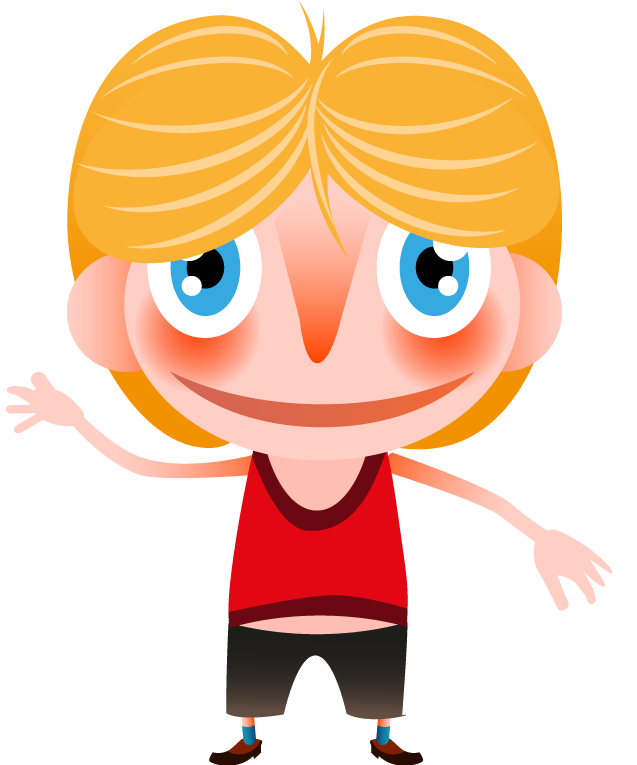
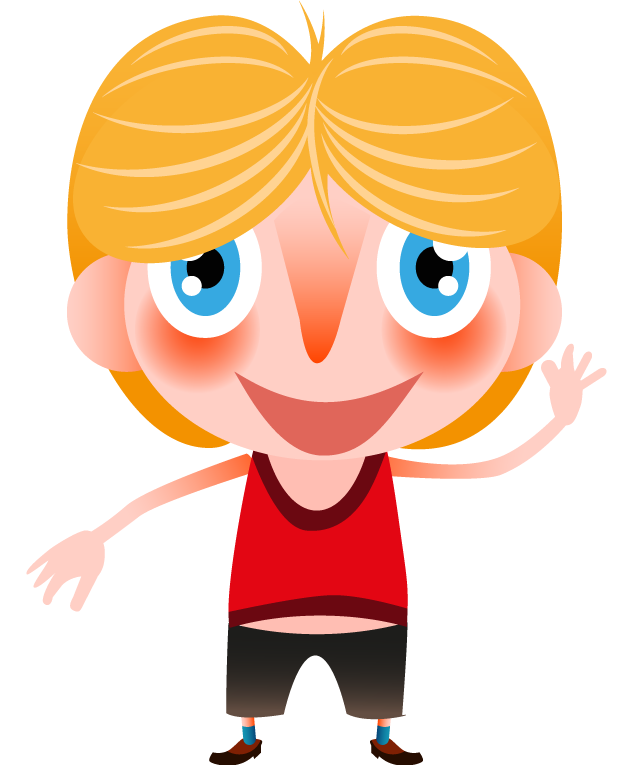
Agregue nuevas animaciones apra cuando en Challenge pifias y acertas. Momentaneamente deshabilite avatarOK, habria que volver a ponerla de forma aleatoria o que el baile se haga solo si acertas las 10

Changed region(s): [[0.0, 0.481, 0.3878, 0.8118], [0.6264, 0.451, 0.9545, 0.8118], [0.2684, 0.481, 0.7457, 0.6013]]

diff --git a/Classes/AnimatorHelper.m b/Classes/AnimatorHelper.m
@@ -1,10 +1,10 @@
-//
-//  AvatarAnimator.m
-//  VocabularyTrip
-//
-//  Created by Ariel on 11/11/13.
-//
-//
+    //
+    //  AvatarAnimator.m
+    //  VocabularyTrip
+    //
+    //  Created by Ariel on 11/11/13.
+    //
+    //
 
 #import "AnimatorHelper.h"
 #import "User.h"
@@ -17,11 +17,11 @@ SEL selectorAnimator = nil;
 + (void) avatarBlink: (UIImageView*) avatarView {
     User *user = [UserContext getUserSelected];
     avatarView.animationImages = @[
-       //[UIImage imageNamed: @"avatar2_0.png"],
-      [UIImage imageNamed: [NSString stringWithFormat: @"avatar%i%@", user.userId, @"_blink1.png"]],
-      [UIImage imageNamed: [NSString stringWithFormat: @"avatar%i%@", user.userId, @"_blink2.png"]],
-      [UIImage imageNamed: [NSString stringWithFormat: @"avatar%i%@", user.userId, @"_blink1.png"]]
-    ];
+                                   //[UIImage imageNamed: @"avatar2_0.png"],
+                                   [UIImage imageNamed: [NSString stringWithFormat: @"avatar%i%@", user.userId, @"_blink1.png"]],
+                                   [UIImage imageNamed: [NSString stringWithFormat: @"avatar%i%@", user.userId, @"_blink2.png"]],
+                                   [UIImage imageNamed: [NSString stringWithFormat: @"avatar%i%@", user.userId, @"_blink1.png"]]
+                                   ];
     
     avatarView.animationDuration = 0.2;
     avatarView.animationRepeatCount = 1;
@@ -32,22 +32,82 @@ SEL selectorAnimator = nil;
     User *user = [UserContext getUserSelected];
     
     avatarView.animationImages = @[
-      //[UIImage imageNamed: @"avatar2_0.png"],
-      [UIImage imageNamed: [NSString stringWithFormat: @"avatar%i%@", user.userId, @"_arm1.png"]],
-      [UIImage imageNamed: [NSString stringWithFormat: @"avatar%i%@", user.userId, @"_arm2.png"]],
-      [UIImage imageNamed: [NSString stringWithFormat: @"avatar%i%@", user.userId, @"_arm3.png"]],
-      [UIImage imageNamed: [NSString stringWithFormat: @"avatar%i%@", user.userId, @"_arm4b.png"]],
-      [UIImage imageNamed: [NSString stringWithFormat: @"avatar%i%@", user.userId, @"_arm5b.png"]],
-      [UIImage imageNamed: [NSString stringWithFormat: @"avatar%i%@", user.userId, @"_arm4b.png"]],
-      [UIImage imageNamed: [NSString stringWithFormat: @"avatar%i%@", user.userId, @"_arm5b.png"]],
-      [UIImage imageNamed: [NSString stringWithFormat: @"avatar%i%@", user.userId, @"_arm4b.png"]],
-      [UIImage imageNamed: [NSString stringWithFormat: @"avatar%i%@", user.userId, @"_arm5b.png"]],
-      [UIImage imageNamed: [NSString stringWithFormat: @"avatar%i%@", user.userId, @"_arm4b.png"]],
-      [UIImage imageNamed: [NSString stringWithFormat: @"avatar%i%@", user.userId, @"_arm3.png"]],
-      [UIImage imageNamed: [NSString stringWithFormat: @"avatar%i%@", user.userId, @"_arm2.png"]]
-    ];
+                                   //[UIImage imageNamed: @"avatar2_0.png"],
+                                   [UIImage imageNamed: [NSString stringWithFormat: @"avatar%i%@", user.userId, @"_arm1.png"]],
+                                   [UIImage imageNamed: [NSString stringWithFormat: @"avatar%i%@", user.userId, @"_arm2.png"]],
+                                   [UIImage imageNamed: [NSString stringWithFormat: @"avatar%i%@", user.userId, @"_arm3.png"]],
+                                   [UIImage imageNamed: [NSString stringWithFormat: @"avatar%i%@", user.userId, @"_arm4b.png"]],
+                                   [UIImage imageNamed: [NSString stringWithFormat: @"avatar%i%@", user.userId, @"_arm5b.png"]],
+                                   [UIImage imageNamed: [NSString stringWithFormat: @"avatar%i%@", user.userId, @"_arm4b.png"]],
+                                   [UIImage imageNamed: [NSString stringWithFormat: @"avatar%i%@", user.userId, @"_arm5b.png"]],
+                                   [UIImage imageNamed: [NSString stringWithFormat: @"avatar%i%@", user.userId, @"_arm4b.png"]],
+                                   [UIImage imageNamed: [NSString stringWithFormat: @"avatar%i%@", user.userId, @"_arm5b.png"]],
+                                   [UIImage imageNamed: [NSString stringWithFormat: @"avatar%i%@", user.userId, @"_arm4b.png"]],
+                                   [UIImage imageNamed: [NSString stringWithFormat: @"avatar%i%@", user.userId, @"_arm3.png"]],
+                                   [UIImage imageNamed: [NSString stringWithFormat: @"avatar%i%@", user.userId, @"_arm2.png"]]
+                                   ];
     
     avatarView.animationDuration = 1.7;
+    avatarView.animationRepeatCount = 1;
+    [avatarView startAnimating];
+    
+}
+
++ (void) avatarFrustrated: (UIImageView*) avatarView {
+    User *user = [UserContext getUserSelected];
+    
+    avatarView.animationImages = @[
+                                   //[UIImage imageNamed: @"avatar2_0.png"],
+                                   [UIImage imageNamed: [NSString stringWithFormat: @"avatar%i%@", user.userId, @"_frustrado_1.png"]],
+                                   [UIImage imageNamed: [NSString stringWithFormat: @"avatar%i%@", user.userId, @"_frustrado_2.png"]],
+                                   [UIImage imageNamed: [NSString stringWithFormat: @"avatar%i%@", user.userId, @"_frustrado_3.png"]],
+                                   [UIImage imageNamed: [NSString stringWithFormat: @"avatar%i%@", user.userId, @"_frustrado_4.png"]],
+                                   [UIImage imageNamed: [NSString stringWithFormat: @"avatar%i%@", user.userId, @"_frustrado_4.png"]],
+                                   [UIImage imageNamed: [NSString stringWithFormat: @"avatar%i%@", user.userId, @"_frustrado_4.png"]],
+                                   [UIImage imageNamed: [NSString stringWithFormat: @"avatar%i%@", user.userId, @"_frustrado_4.png"]],
+                                   [UIImage imageNamed: [NSString stringWithFormat: @"avatar%i%@", user.userId, @"_frustrado_3.png"]],
+                                   [UIImage imageNamed: [NSString stringWithFormat: @"avatar%i%@", user.userId, @"_frustrado_2.png"]],
+                                   [UIImage imageNamed: [NSString stringWithFormat: @"avatar%i%@", user.userId, @"_frustrado_1.png"]],
+                                   ];
+    
+    avatarView.animationDuration = 1;
+    avatarView.animationRepeatCount = 1;
+    [avatarView startAnimating];
+    
+}
+
++ (void) avatarDance: (UIImageView*) avatarView {
+    User *user = [UserContext getUserSelected];
+    
+    avatarView.animationImages = @[
+                                   //[UIImage imageNamed: @"avatar2_0.png"],
+                                   [UIImage imageNamed: [NSString stringWithFormat: @"avatar%i%@", user.userId, @"_bailando_1.png"]],
+                                   [UIImage imageNamed: [NSString stringWithFormat: @"avatar%i%@", user.userId, @"_bailando_2.png"]],
+                                   [UIImage imageNamed: [NSString stringWithFormat: @"avatar%i%@", user.userId, @"_bailando_3.png"]],
+                                   [UIImage imageNamed: [NSString stringWithFormat: @"avatar%i%@", user.userId, @"_bailando_4.png"]],
+                                   [UIImage imageNamed: [NSString stringWithFormat: @"avatar%i%@", user.userId, @"_bailando_5.png"]],
+                                   [UIImage imageNamed: [NSString stringWithFormat: @"avatar%i%@", user.userId, @"_bailando_4.png"]],
+                                   [UIImage imageNamed: [NSString stringWithFormat: @"avatar%i%@", user.userId, @"_bailando_3.png"]],
+                                   [UIImage imageNamed: [NSString stringWithFormat: @"avatar%i%@", user.userId, @"_bailando_2.png"]],
+                                   [UIImage imageNamed: [NSString stringWithFormat: @"avatar%i%@", user.userId, @"_bailando_1.png"]],
+                                   [UIImage imageNamed: [NSString stringWithFormat: @"avatar%i%@", user.userId, @"_bailando_2.png"]],
+                                   [UIImage imageNamed: [NSString stringWithFormat: @"avatar%i%@", user.userId, @"_bailando_3.png"]],
+                                   [UIImage imageNamed: [NSString stringWithFormat: @"avatar%i%@", user.userId, @"_bailando_4.png"]],
+                                   [UIImage imageNamed: [NSString stringWithFormat: @"avatar%i%@", user.userId, @"_bailando_5.png"]],
+                                   [UIImage imageNamed: [NSString stringWithFormat: @"avatar%i%@", user.userId, @"_bailando_4.png"]],
+                                   [UIImage imageNamed: [NSString stringWithFormat: @"avatar%i%@", user.userId, @"_bailando_3.png"]],
+                                   [UIImage imageNamed: [NSString stringWithFormat: @"avatar%i%@", user.userId, @"_bailando_2.png"]],
+                                   [UIImage imageNamed: [NSString stringWithFormat: @"avatar%i%@", user.userId, @"_bailando_1.png"]],
+                                   [UIImage imageNamed: [NSString stringWithFormat: @"avatar%i%@", user.userId, @"_bailando_2.png"]],
+                                   [UIImage imageNamed: [NSString stringWithFormat: @"avatar%i%@", user.userId, @"_bailando_3.png"]],
+                                   [UIImage imageNamed: [NSString stringWithFormat: @"avatar%i%@", user.userId, @"_bailando_4.png"]],
+                                   [UIImage imageNamed: [NSString stringWithFormat: @"avatar%i%@", user.userId, @"_bailando_5.png"]],
+                                   [UIImage imageNamed: [NSString stringWithFormat: @"avatar%i%@", user.userId, @"_bailando_4.png"]],
+                                   [UIImage imageNamed: [NSString stringWithFormat: @"avatar%i%@", user.userId, @"_bailando_3.png"]],
+                                   [UIImage imageNamed: [NSString stringWithFormat: @"avatar%i%@", user.userId, @"_bailando_2.png"]],
+                                   ];
+    
+    avatarView.animationDuration = 1;
     avatarView.animationRepeatCount = 1;
     [avatarView startAnimating];
     
@@ -77,7 +137,7 @@ SEL selectorAnimator = nil;
 }
 
 + (void) shakeView: (UIView*) itemView delegate: (id) delegate {
-    //AudioServicesPlaySystemSound(kSystemSoundID_Vibrate);
+        //AudioServicesPlaySystemSound(kSystemSoundID_Vibrate);
     
     CGFloat t = 3.0;
     
@@ -109,7 +169,7 @@ SEL selectorAnimator = nil;
     [animationParameters setObject: delegate forKey: @"delegate"];
     [animationParameters setObject: itemView forKey: @"itemView"];
     selectorAnimator = !selectorParam ? @selector(releaseClickingView:finished:context:) : selectorParam;
-
+    
 	[UIImageView beginAnimations: @"clickingAnimation" context: CFBridgingRetain(animationParameters)];
 	[UIImageView setAnimationDelegate: self];
 	[UIImageView setAnimationDuration: .15];
@@ -130,7 +190,7 @@ SEL selectorAnimator = nil;
     id delegate = (id) [parameters objectForKey: @"delegate"];
     
 	CGRect frame = itemView.frame;
-
+    
 	[UIImageView beginAnimations: @"helpAnimation" context: CFBridgingRetain(parameters)];
 	[UIImageView setAnimationDelegate: delegate];
 	[UIImageView setAnimationDuration: .5];
@@ -160,18 +220,18 @@ SEL selectorAnimator = nil;
 }
 
 + (void) scale: (UIView*) itemView from: (CGPoint) p1 to: (CGPoint) p2 {
-    //AudioServicesPlaySystemSound(kSystemSoundID_Vibrate);
+        //AudioServicesPlaySystemSound(kSystemSoundID_Vibrate);
     
-    //CGAffineTransform st1  = CGAffineTransformTranslate(CGAffineTransformIdentity, 0, -100);
-    //CGAffineTransform st2  = CGAffineTransformTranslate(CGAffineTransformIdentity, 0, 0);
+        //CGAffineTransform st1  = CGAffineTransformTranslate(CGAffineTransformIdentity, 0, -100);
+        //CGAffineTransform st2  = CGAffineTransformTranslate(CGAffineTransformIdentity, 0, 0);
     
-    //itemView.transform = st1;  // starting point
+        //itemView.transform = st1;  // starting point
     itemView.layer.anchorPoint = CGPointMake(0, 0);
     itemView.transform = CGAffineTransformMakeScale(p1.x, p1.y);
     
     [UIView beginAnimations: @"scale" context: (__bridge void *)(itemView)];
     [UIView setAnimationDuration: 3];
-    //[UIView setAnimationDidStopSelector:@selector(shakeViewEnded:finished:context:)];
+        //[UIView setAnimationDidStopSelector:@selector(shakeViewEnded:finished:context:)];
     [UIView setAnimationDelegate: self];
     
     itemView.transform = CGAffineTransformMakeScale(p2.x, p2.y);
@@ -180,11 +240,11 @@ SEL selectorAnimator = nil;
 }
 
 + (void) rotateView: (UIView*) itemView {
-
+    
     [UIView beginAnimations:@"rotate" context: (__bridge void *)(itemView)];
     [UIView setAnimationDuration: 1];
     itemView.layer.transform =
-        CATransform3DScale(CATransform3DMakeRotation(M_PI, 0, 0, 1), -1, 1, 1);
+    CATransform3DScale(CATransform3DMakeRotation(M_PI, 0, 0, 1), -1, 1, 1);
     
     [UIView commitAnimations];
 }

diff --git a/Classes/TestTrain.m b/Classes/TestTrain.m
@@ -132,6 +132,7 @@
 			[Sentence playSpeaker: @"Test-EndGame-GreatJob" delegate: self selector: @selector(refreshMoneyLabels)];
             [[UserContext getUserSelected] nextSequence: @"Challenge"];
 		} else {
+            [AnimatorHelper avatarDance: driverView];
 			[Sentence playSpeaker: @"Test-EndGame-Amazing" delegate: self selector: @selector(refreshMoneyLabels)];
             [[UserContext getUserSelected] nextSequence: @"Challenge"];
 		}
@@ -273,12 +274,14 @@
 		if (targetId == i) {
 			if (flagFaild == NO) {
 				[w decWeight];
-                [AnimatorHelper avatarOk: driverView];
+                [AnimatorHelper avatarDance: driverView];
 				// Increment the hit of Level
 				[self incrementHitAtLevel: w.theme];
 			}
 			[self changeImageOn: aButton wordButtonLabel: aButtonLabel id: i];
 		} else {
+                // TODO, insert here frustrated animation
+            [AnimatorHelper avatarFrustrated: driverView];
 			flagFaild = YES;
             Word* w2 = [words objectAtIndex: i];
             [w2 incWeight];

diff --git a/Classes/AnimatorHelper.h b/Classes/AnimatorHelper.h
@@ -17,6 +17,8 @@ extern SEL selectorAnimator;
 + (void) shakeView: (UIView*) itemView delegate: (id) delegate;
 + (void) avatarGreet: (UIImageView*) avatarView;
 + (void) avatarOk: (UIImageView*) avatarView;
++ (void) avatarFrustrated: (UIImageView*) avatarView;
++ (void) avatarDance: (UIImageView*) avatarView;
 + (void) scale: (UIView*) itemView from: (CGPoint) p1 to: (CGPoint) p2;
 + (void) rotateView: (UIView*) itemView;
 + (void) clickingView: (UIView*) itemView delegate: (id) delegate selector: (SEL) selector;
